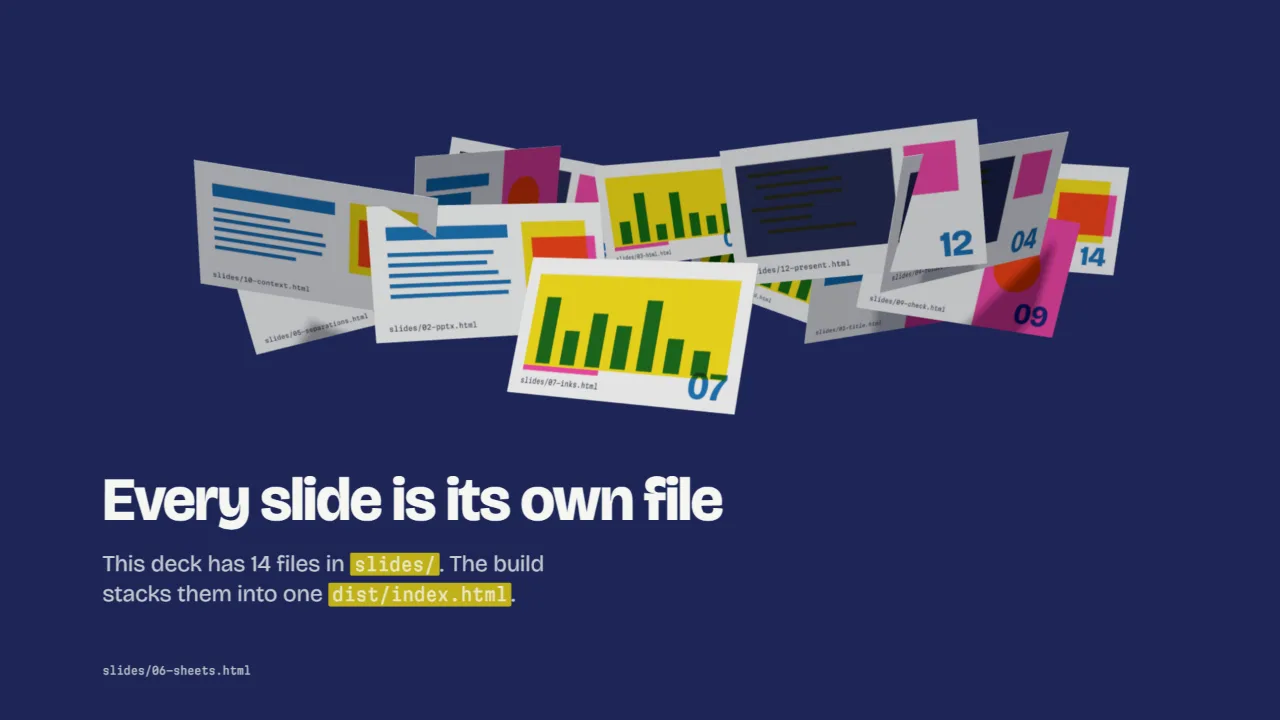
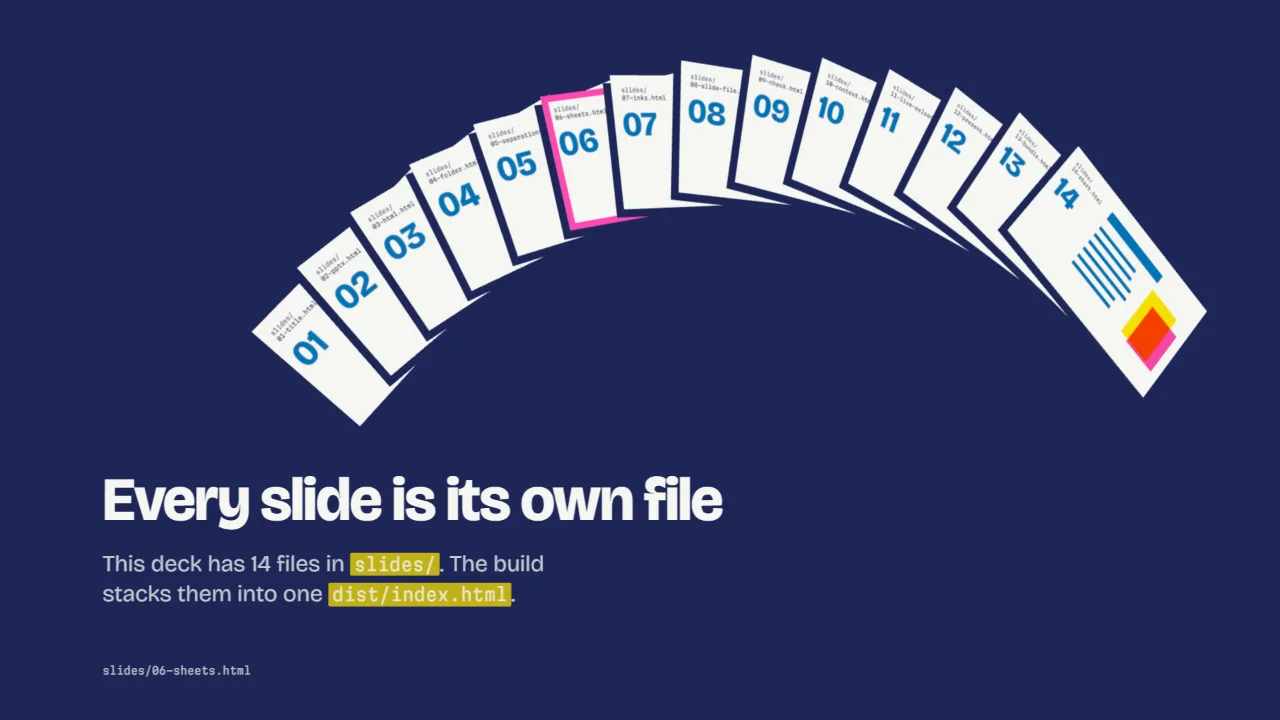
Show the starter sheets as a fan of cards
The sheets on slide 6 had random 3D tilts, so they cut through each
other and looked disordered. Shadows and lighting also made the inks
look muddy.

The sheets now float as a hand of cards in slide order. All sheets
share one tilt and turn only within their own plane, so they cannot
intersect. Each sheet shows its number and file name in the part that
stays visible. The printed face ignores light, so the inks stay true.
A hard offset shadow in the text color separates the sheets, as in the
rest of the deck, and it hides when the sheets stack.

Update the speaker notes, the content file, and the website thumbnail.

Changed region(s): [[0.125, 0.0611, 0.9375, 0.5806]]

diff --git a/template/assets/sheets-scene.js b/template/assets/sheets-scene.js
@@ -1,7 +1,7 @@
 import * as THREE from "./vendor/three.module.min.js";
 
-// Every slide file of this deck becomes a sheet of paper. The sheets drift
-// apart, then fly into one stack (the build), then drift apart again.
+// Every slide file of this deck becomes a sheet of paper. The sheets float
+// as a fan in reading order, fly into one stack (the build), then fan out again.
 
 const reducedMotion = window.matchMedia("(prefers-reduced-motion: reduce)");
 const SHEET_WIDTH = 1.6;
@@ -13,9 +13,20 @@ const RELEASE_AT = 9;
 const HOLD_TIME = 7;
 const CYCLE = 13;
 
+// The fan: a hand of cards that radiates from a pivot below it. Every sheet
+// shares one tilt and differs only in how far it turns within its own plane,
+// so the sheets stay parallel and never cut through each other. Later sheets
+// sit in front, so each sheet shows a wedge with its number and file name.
+const FAN_PIVOT = new THREE.Vector3(2.25, -1.95, -0.3);
+const FAN_RADIUS = 3.3;
+const FAN_SPREAD = 0.82;
+const FAN_DEPTH_STEP = 0.1;
+const FAN_TILT = new THREE.Euler(-0.26, 0.22, 0);
+const SHADOW_OFFSET = 0.05;
+
 await Promise.all([
-  document.fonts.load('800 160px "Bricolage Grotesque"'),
-  document.fonts.load('500 30px "Martian Mono"')
+  document.fonts.load('800 200px "Bricolage Grotesque"'),
+  document.fonts.load('500 26px "Martian Mono"')
 ]).catch(() => {});
 
 document.querySelectorAll("[data-sheets]").forEach(initSheets);
@@ -47,28 +58,23 @@ function initSheets(canvas) {
   const renderer = new THREE.WebGLRenderer({ canvas, context, alpha: true, antialias: true });
   renderer.setPixelRatio(Math.min(window.devicePixelRatio || 1, 2));
   renderer.outputColorSpace = THREE.SRGBColorSpace;
-  renderer.shadowMap.enabled = true;
-  renderer.shadowMap.type = THREE.PCFShadowMap;
 
   const scene = new THREE.Scene();
   const camera = new THREE.PerspectiveCamera(34, 16 / 9, 0.1, 100);
   const cameraBase = new THREE.Vector3(0.4, 1.4, 7.2);
   const lookAt = new THREE.Vector3(1.5, -0.05, 0);
 
-  scene.add(new THREE.HemisphereLight(0xffffff, 0x3a4680, 1.25));
-  const sun = new THREE.DirectionalLight(0xffffff, 1.9);
+  // Lights only shade the paper edges. The printed face ignores light, so the inks stay true.
+  scene.add(new THREE.HemisphereLight(0xffffff, 0x3a4680, 1.4));
+  const sun = new THREE.DirectionalLight(0xffffff, 1.6);
   sun.position.set(-3, 7, 6);
-  sun.castShadow = true;
-  sun.shadow.mapSize.set(2048, 2048);
-  sun.shadow.camera.left = -6;
-  sun.shadow.camera.right = 6;
-  sun.shadow.camera.top = 6;
-  sun.shadow.camera.bottom = -6;
-  sun.shadow.bias = -0.0008;
-  sun.shadow.radius = 6;
   scene.add(sun);
 
   const geometry = new THREE.BoxGeometry(SHEET_WIDTH, SHEET_HEIGHT, 0.006);
+  const shadowGeometry = new THREE.PlaneGeometry(SHEET_WIDTH, SHEET_HEIGHT);
+  // A hard offset shadow in the text color, as in the deck. Over the navy
+  // background it disappears. Over another sheet it separates the two.
+  const shadowMaterial = new THREE.MeshBasicMaterial();
   const sheets = files.map((file, index) => createSheet(file, index));
 
   function createSheet(file, index) {
@@ -80,27 +86,26 @@ function initSheets(canvas) {
     texture.anisotropy = renderer.capabilities.getMaxAnisotropy();
 
     const paper = new THREE.MeshStandardMaterial({ color: 0xffffff, roughness: 0.9 });
-    const front = new THREE.MeshStandardMaterial({ map: texture, roughness: 0.82 });
+    const front = new THREE.MeshBasicMaterial({ map: texture });
     const mesh = new THREE.Mesh(geometry, [paper, paper, paper, paper, front, paper]);
-    mesh.castShadow = true;
-    mesh.receiveShadow = true;
+    const shadow = new THREE.Mesh(shadowGeometry, shadowMaterial);
+    shadow.position.z = -0.012;
+    mesh.add(shadow);
     scene.add(mesh);
 
-    // Scatter the sheets up and to the right; the heading sits in the lower left.
+    // The sheet's place in the fan: left to right in slide order, one step
+    // forward each, then the whole fan tilts as one piece.
     const random = seeded(index + 7);
-    const angle = index * 2.399963;
-    const radius = 1.5 + random() * 1.6;
-    const scatterPosition = new THREE.Vector3(
-      2.1 + Math.cos(angle) * radius * 1.15,
-      0.55 + Math.sin(angle * 1.3) * 1.15 + (random() - 0.5) * 0.4,
-      -1.4 + Math.sin(angle) * radius * 0.8
-    );
-    if (scatterPosition.x < 1.6 && scatterPosition.y < 0.3) {
-      scatterPosition.y = 0.3 + random() * 1.1;
-    }
+    const n = files.length;
+    const angle = n === 1 ? 0 : ((index / (n - 1)) * 2 - 1) * FAN_SPREAD;
+    const offset = new THREE.Vector3(
+      FAN_RADIUS * Math.sin(angle),
+      FAN_RADIUS * Math.cos(angle),
+      index * FAN_DEPTH_STEP
+    ).applyEuler(FAN_TILT);
     const scatter = {
-      position: scatterPosition,
-      rotation: new THREE.Euler((random() - 0.5) * 0.9, (random() - 0.5) * 1.3, (random() - 0.5) * 0.6)
+      position: FAN_PIVOT.clone().add(offset),
+      turn: -angle
     };
     const stack = {
       position: new THREE.Vector3(
@@ -111,9 +116,7 @@ function initSheets(canvas) {
       rotation: new THREE.Euler(-0.95, 0.12, (random() - 0.5) * 0.05)
     };
 
-    const sheet = { file, index, mesh, texture, textureCanvas, scatter, stack, phase: random() * Math.PI * 2 };
-    drawSheet(sheet);
-    return sheet;
+    return { file, index, mesh, shadow, texture, textureCanvas, scatter, stack, phase: random() * Math.PI * 2 };
   }
 
   function drawSheet(sheet) {
@@ -127,66 +130,76 @@ function initSheets(canvas) {
     ctx.fillStyle = inks.paper;
     ctx.fillRect(0, 0, w, h);
 
-    ctx.globalCompositeOperation = "multiply";
-    const layout = sheet.index % 4;
-    if (layout === 0) {
-      ctx.fillStyle = inks.ink2;
-      ctx.fillRect(w * 0.58, 0, w * 0.42, h);
-      ctx.fillStyle = inks.ink1;
-      ctx.fillRect(72, 110, 420, 64);
-      ctx.fillRect(72, 196, 300, 64);
-      ctx.fillStyle = inks.ink3;
-      ctx.beginPath();
-      ctx.arc(w * 0.74, h * 0.46, 120, 0, Math.PI * 2);
-      ctx.fill();
-    } else if (layout === 1) {
-      ctx.fillStyle = inks.ink1;
-      ctx.fillRect(72, 90, 520, 58);
-      for (let line = 0; line < 5; line += 1) {
-        ctx.fillRect(72, 200 + line * 44, 300 + random() * 220, 18);
-      }
-      ctx.fillStyle = inks.ink3;
-      ctx.fillRect(w * 0.64, 80, 290, 330);
-      ctx.fillStyle = inks.ink2;
-      ctx.fillRect(w * 0.64 + 40, 150, 290, 220);
-    } else if (layout === 2) {
-      ctx.fillStyle = inks.ink3;
-      ctx.fillRect(56, 70, w - 112, h - 190);
-      ctx.fillStyle = inks.ink1;
-      for (let bar = 0; bar < 7; bar += 1) {
-        const barHeight = 60 + random() * 230;
-        ctx.fillRect(110 + bar * 118, h - 130 - barHeight, 70, barHeight);
-      }
-      ctx.fillStyle = inks.ink2;
-      ctx.fillRect(56, h - 120, 360, 22);
-    } else {
-      ctx.fillStyle = inks.text;
-      ctx.fillRect(56, 70, w * 0.62, h - 190);
-      ctx.fillStyle = inks.ink3;
-      for (let line = 0; line < 6; line += 1) {
-        ctx.fillRect(100 + (line % 3) * 30, 110 + line * 48, 180 + random() * 260, 16);
-      }
-      ctx.fillStyle = inks.ink2;
-      ctx.fillRect(w * 0.72, 70, 200, 200);
-    }
-
-    ctx.globalCompositeOperation = "source-over";
-    ctx.fillStyle = inks.text;
-    ctx.font = '800 150px "Bricolage Grotesque", sans-serif';
-    ctx.textAlign = "right";
-    ctx.textBaseline = "alphabetic";
-    ctx.globalCompositeOperation = "multiply";
-    ctx.fillStyle = inks.ink1;
-    ctx.fillText(String(sheet.index + 1).padStart(2, "0"), w - 48, h - 44);
-
-    ctx.globalCompositeOperation = "source-over";
-    ctx.fillStyle = inks.text;
+    // The left column holds the file name and number: the part of each sheet the fan leaves visible.
+    const slash = sheet.file.lastIndexOf("/");
+    const folder = slash >= 0 ? sheet.file.slice(0, slash + 1) : "";
+    const name = sheet.file.slice(slash + 1);
     ctx.textAlign = "left";
-    ctx.font = '500 30px "Martian Mono", monospace';
+    ctx.textBaseline = "alphabetic";
+    ctx.font = '500 26px "Martian Mono", monospace';
     if ("fontStretch" in ctx) {
       ctx.fontStretch = "semi-condensed";
     }
-    ctx.fillText(sheet.file, 56, h - 44);
+    ctx.fillStyle = inks.soft;
+    ctx.fillText(folder, 44, 74);
+    ctx.fillStyle = inks.text;
+    ctx.fillText(name, 44, 108);
+    if ("fontStretch" in ctx) {
+      ctx.fontStretch = "normal";
+    }
+    ctx.font = '800 150px "Bricolage Grotesque", sans-serif';
+    ctx.globalCompositeOperation = "multiply";
+    ctx.fillStyle = inks.ink1;
+    ctx.fillText(String(sheet.index + 1).padStart(2, "0"), 34, 262);
+
+    // A sketch of a slide in the art area on the right.
+    const ax = 330;
+    const ay = 56;
+    const aw = w - ax - 48;
+    const ah = h - ay - 56;
+    const layout = sheet.index % 4;
+    if (layout === 0) {
+      ctx.fillStyle = inks.ink2;
+      ctx.fillRect(ax + aw * 0.56, ay, aw * 0.44, ah);
+      ctx.fillStyle = inks.ink1;
+      ctx.fillRect(ax, ay + 40, aw * 0.5, 54);
+      ctx.fillRect(ax, ay + 116, aw * 0.36, 54);
+      ctx.fillStyle = inks.ink3;
+      ctx.beginPath();
+      ctx.arc(ax + aw * 0.7, ay + ah * 0.56, ah * 0.26, 0, Math.PI * 2);
+      ctx.fill();
+    } else if (layout === 1) {
+      ctx.fillStyle = inks.ink1;
+      ctx.fillRect(ax, ay + 20, aw * 0.62, 50);
+      for (let line = 0; line < 6; line += 1) {
+        ctx.fillRect(ax, ay + 118 + line * 46, aw * (0.34 + random() * 0.2), 18);
+      }
+      ctx.fillStyle = inks.ink3;
+      ctx.fillRect(ax + aw * 0.62, ay + 110, aw * 0.3, ah * 0.6);
+      ctx.fillStyle = inks.ink2;
+      ctx.fillRect(ax + aw * 0.7, ay + 170, aw * 0.3, ah * 0.5);
+    } else if (layout === 2) {
+      ctx.fillStyle = inks.ink3;
+      ctx.fillRect(ax, ay, aw, ah);
+      ctx.fillStyle = inks.ink1;
+      const barWidth = (aw - 60) / 6;
+      for (let bar = 0; bar < 6; bar += 1) {
+        const barHeight = ah * (0.2 + random() * 0.6);
+        ctx.fillRect(ax + 40 + bar * barWidth, ay + ah - 36 - barHeight, barWidth - 26, barHeight);
+      }
+      ctx.fillStyle = inks.ink2;
+      ctx.fillRect(ax, ay + ah - 22, aw * 0.5, 22);
+    } else {
+      ctx.fillStyle = inks.text;
+      ctx.fillRect(ax, ay, aw * 0.78, ah);
+      ctx.fillStyle = inks.ink3;
+      for (let line = 0; line < 7; line += 1) {
+        ctx.fillRect(ax + 36 + (line % 3) * 30, ay + 44 + line * 54, aw * (0.2 + random() * 0.3), 16);
+      }
+      ctx.fillStyle = inks.ink2;
+      ctx.fillRect(ax + aw * 0.66, ay + 30, aw * 0.34, aw * 0.34);
+    }
+    ctx.globalCompositeOperation = "source-over";
 
     if (sheet.file === ownSource) {
       ctx.strokeStyle = inks.ink2;
@@ -203,13 +216,20 @@ function initSheets(canvas) {
     return {
       paper: read("--color-paper", "#f5f6f2"),
       text: read("--color-text", "#1d2657"),
+      soft: read("--color-text-soft", "#4a5384"),
       ink1: read("--ink-1", "#0078bf"),
       ink2: read("--ink-2", "#ff48b0"),
       ink3: read("--ink-3", "#ffe800")
     };
   }
 
-  document.addEventListener("byeslide:inks", () => sheets.forEach(drawSheet));
+  function paint() {
+    shadowMaterial.color.set(readInks().text);
+    sheets.forEach(drawSheet);
+  }
+
+  document.addEventListener("byeslide:inks", paint);
+  paint();
 
   const pointer = new THREE.Vector2();
   const pointerTarget = new THREE.Vector2();
@@ -221,14 +241,15 @@ function initSheets(canvas) {
     );
   });
 
-  const scatterQuaternion = new THREE.Quaternion();
+  const fanEuler = new THREE.Euler();
+  const fanQuaternion = new THREE.Quaternion();
   const stackQuaternion = new THREE.Quaternion();
   const floatPosition = new THREE.Vector3();
   let startedAt = performance.now();
   let hasRendered = false;
   let wasActive = false;
 
-  // Each cycle: drift, fly into the stack one by one, hold, fly apart.
+  // Each cycle: float as a fan, fly into the stack one by one, hold, fan out again.
   function place(sheet, time) {
     const cycleTime = time % CYCLE;
     const n = sheets.length;
@@ -241,22 +262,22 @@ function initSheets(canvas) {
       progress = 1 - easeInOut(clamp((cycleTime - RELEASE_AT - (n - sheet.index) * (1.2 / n)) / 1.6));
     }
 
-    const bob = Math.sin(time * 0.7 + sheet.phase);
+    // Floating moves each sheet within the fan only, so the sheets stay parallel.
     floatPosition.copy(sheet.scatter.position);
-    floatPosition.y += bob * 0.12;
-    floatPosition.x += Math.cos(time * 0.4 + sheet.phase) * 0.08;
+    floatPosition.y += Math.sin(time * 0.8 + sheet.index * 0.45) * 0.035;
+
+    // The shadow falls to the lower left, onto the sheet behind. In the stack it hides.
+    sheet.shadow.position.x = -SHADOW_OFFSET * (1 - progress);
+    sheet.shadow.position.y = -SHADOW_OFFSET * (1 - progress);
 
     sheet.mesh.position.lerpVectors(floatPosition, sheet.stack.position, progress);
-    sheet.mesh.position.y += Math.sin(progress * Math.PI) * 0.7;
+    sheet.mesh.position.y += Math.sin(progress * Math.PI) * 0.25;
 
-    const wobble = (1 - progress) * 0.12;
-    scatterQuaternion.setFromEuler(new THREE.Euler(
-      sheet.scatter.rotation.x + Math.sin(time * 0.5 + sheet.phase) * wobble,
-      sheet.scatter.rotation.y + Math.cos(time * 0.45 + sheet.phase) * wobble,
-      sheet.scatter.rotation.z
-    ));
+    // Euler order XYZ turns the sheet about its own normal first, then applies the shared tilt.
+    fanEuler.set(FAN_TILT.x, FAN_TILT.y, sheet.scatter.turn + Math.sin(time * 0.6 + sheet.phase) * 0.01);
+    fanQuaternion.setFromEuler(fanEuler);
     stackQuaternion.setFromEuler(sheet.stack.rotation);
-    sheet.mesh.quaternion.slerpQuaternions(scatterQuaternion, stackQuaternion, progress);
+    sheet.mesh.quaternion.slerpQuaternions(fanQuaternion, stackQuaternion, progress);
   }
 
   function resize() {

diff --git a/docs/index.html b/docs/index.html
@@ -255,7 +255,7 @@ Walk the folder one entry per click.</pre>
             <li><a class="gallery__item" href="https://byeslide-example.mkdevforge.com/#/2"><img src="assets/slides/03-html.webp" alt="The same title as three lines of HTML" width="1280" height="720" loading="lazy"><span class="gallery__what">Auto-animate, part two</span><span class="gallery__file">03-html.html</span></a></li>
             <li><a class="gallery__item" href="https://byeslide-example.mkdevforge.com/#/3"><img src="assets/slides/04-folder.webp" alt="A deck folder tree with one entry highlighted and its callout" width="1280" height="720" loading="lazy"><span class="gallery__what">Fragments with callouts</span><span class="gallery__file">04-folder.html</span></a></li>
             <li><a class="gallery__item" href="https://byeslide-example.mkdevforge.com/#/4"><img src="assets/slides/05-separations.webp" alt="A slide pulled apart into three plates in 3D" width="1280" height="720" loading="lazy"><span class="gallery__what">CSS 3D driven by fragments</span><span class="gallery__file">05-separations.html</span></a></li>
-            <li><a class="gallery__item" href="https://byeslide-example.mkdevforge.com/#/5"><img src="assets/slides/06-sheets.webp" alt="Paper sheets named after slide files floating over navy" width="1280" height="720" loading="lazy"><span class="gallery__what">Three.js scene</span><span class="gallery__file">06-sheets.html</span></a></li>
+            <li><a class="gallery__item" href="https://byeslide-example.mkdevforge.com/#/5"><img src="assets/slides/06-sheets.webp" alt="A fan of paper sheets, one for each slide file, over navy" width="1280" height="720" loading="lazy"><span class="gallery__what">Three.js scene</span><span class="gallery__file">06-sheets.html</span></a></li>
             <li><a class="gallery__item" href="https://byeslide-example.mkdevforge.com/#/6"><img src="assets/slides/07-inks.webp" alt="Ink set buttons next to the theme tokens they change" width="1280" height="720" loading="lazy"><span class="gallery__what">Live theme change</span><span class="gallery__file">07-inks.html</span></a></li>
             <li><a class="gallery__item" href="https://byeslide-example.mkdevforge.com/#/7"><img src="assets/slides/08-slide-file.webp" alt="A slide file with its script lines highlighted" width="1280" height="720" loading="lazy"><span class="gallery__what">Code walkthrough</span><span class="gallery__file">08-slide-file.html</span></a></li>
             <li><a class="gallery__item" href="https://byeslide-example.mkdevforge.com/#/8"><img src="assets/slides/09-check.webp" alt="An editable page that overflows, with the check output" width="1280" height="720" loading="lazy"><span class="gallery__what">Live overflow check</span><span class="gallery__file">09-check.html</span></a></li>

diff --git a/template/slides/06-sheets.html b/template/slides/06-sheets.html
@@ -1,9 +1,9 @@
 <section class="slide slide--bleed" data-background-color="var(--color-text)">
-  <canvas class="three-scene" data-sheets aria-label="The slide files of this deck, as sheets of paper that fly into one stack and apart again"></canvas>
+  <canvas class="three-scene" data-sheets aria-label="The slide files of this deck as a fan of paper sheets that fly into one stack and fan out again"></canvas>
   <div class="three-overlay">
     <h2 class="heading" style="color: var(--color-paper);">Every slide is its own file</h2>
     <p class="body-copy" style="color: color-mix(in srgb, var(--color-paper) 78%, transparent);" data-sheet-count>The build stacks the files in <code>slides/</code> into one page.</p>
   </div>
   <script type="module" src="./assets/sheets-scene.js"></script>
-  <aside class="notes">Each sheet is one real file from this deck; the names are read from the built page. The stack is the build: slides/ goes in, one dist/index.html comes out. Move the mouse over the slide to tilt the camera. Technique: a Three.js module imported from assets/, with the library kept in assets/vendor/ so the slide works offline.</aside>
+  <aside class="notes">Each sheet is one real file from this deck, fanned out in slide order; the names are read from the built page. Then they fly into one stack: that is the build, slides/ goes in and one dist/index.html comes out. Move the mouse over the slide to tilt the camera. Technique: a Three.js module imported from assets/, with the library kept in assets/vendor/ so the slide works offline.</aside>
 </section>

diff --git a/template/content/06-sheets.md b/template/content/06-sheets.md
@@ -6,4 +6,4 @@ The number of files is counted from the deck when it runs.
 
 ## Speaker notes
 
-Each sheet is one real file from this deck; the names are read from the built page. The stack is the build: slides/ goes in, one dist/index.html comes out. Move the mouse over the slide to tilt the camera. Technique: a Three.js module imported from assets/, with the library kept in assets/vendor/ so the slide works offline.
+Each sheet is one real file from this deck, fanned out in slide order; the names are read from the built page. Then they fly into one stack: that is the build, slides/ goes in and one dist/index.html comes out. Move the mouse over the slide to tilt the camera. Technique: a Three.js module imported from assets/, with the library kept in assets/vendor/ so the slide works offline.
